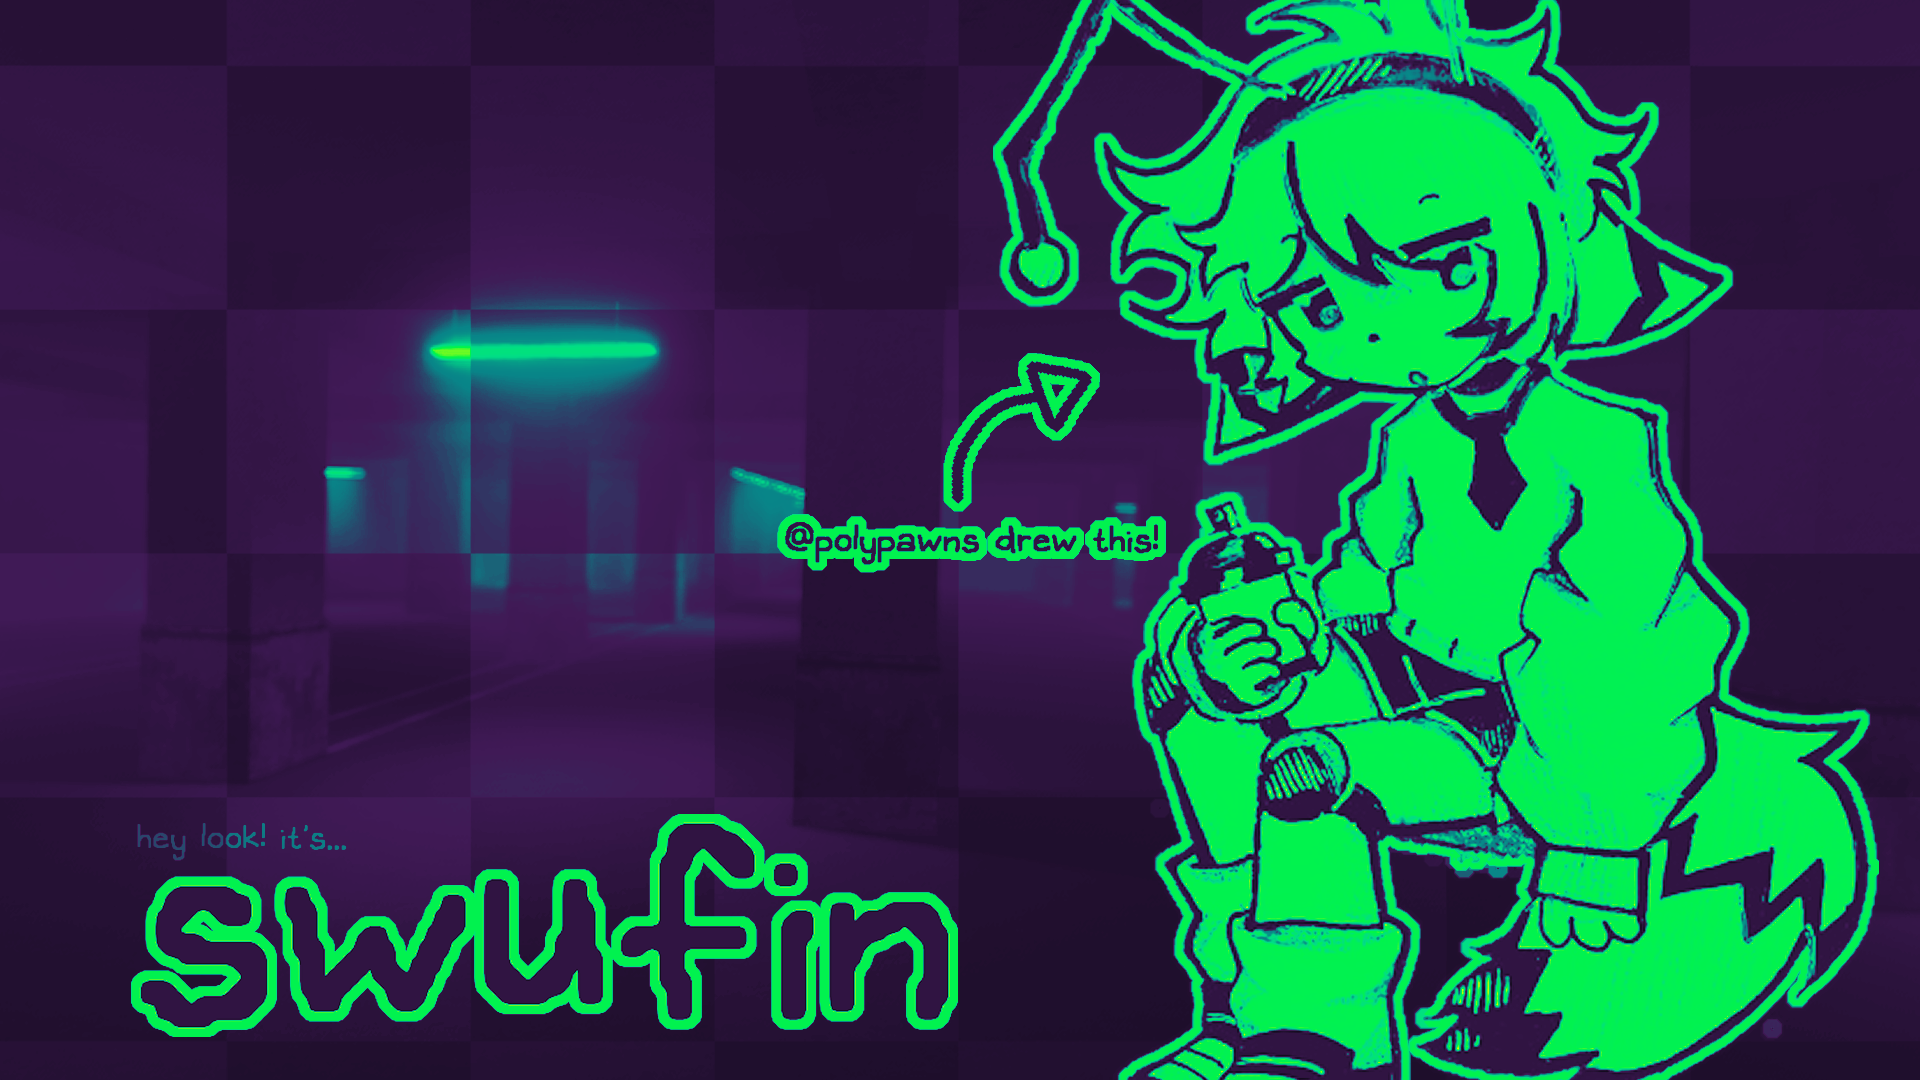
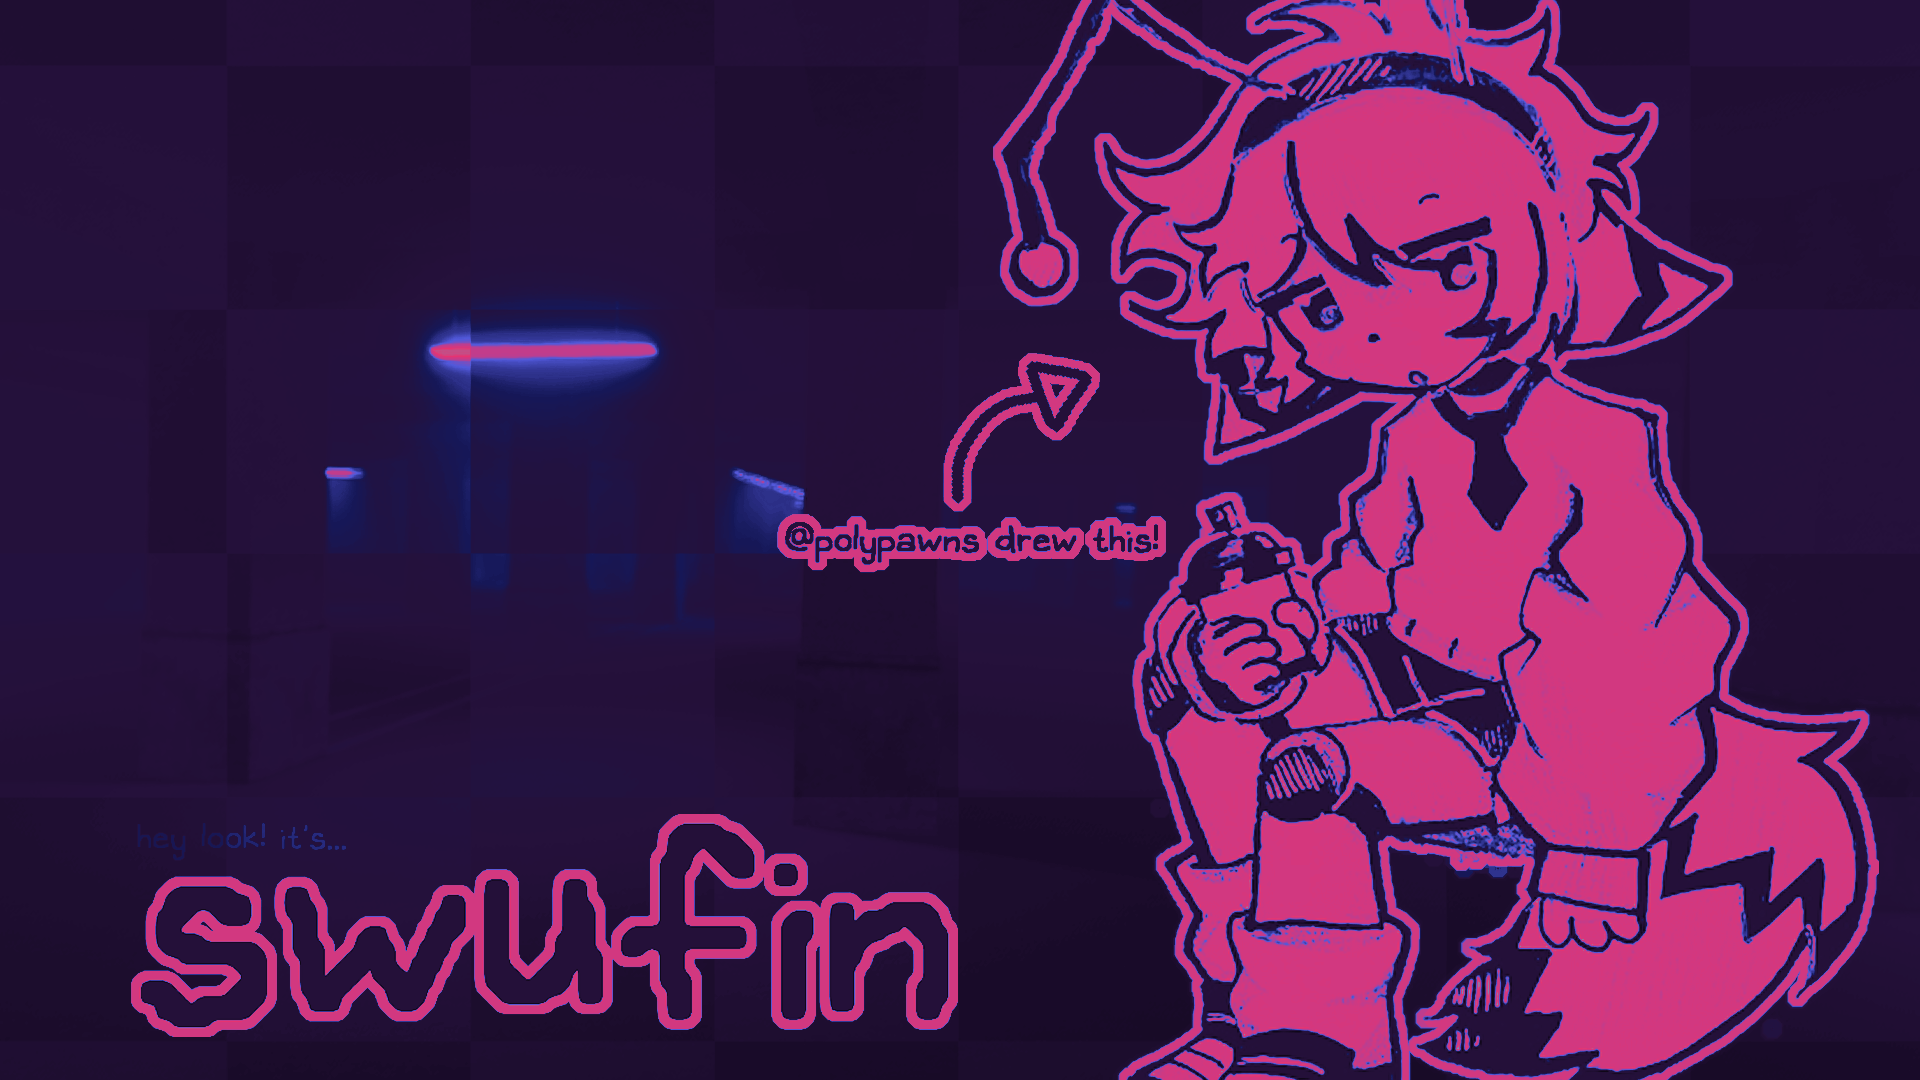
recolor, edited bio

diff --git a/index.html b/index.html
@@ -14,7 +14,7 @@
             color: #fceaff;
             background-image: var(--body-bg-image);
             background-image: url('https://github.com/Swufin/swufin.github.io/blob/main/docs/assets/img/Tile_Alien.png?raw=true');
-            background-color: #10083b;
+            background-color: #0a0511;
             font-family: 'FortySeven Micro NBP', sans-serif;
         }
 
@@ -24,22 +24,22 @@
             align-items: center;
             width: 800px;
             margin: 0 auto;
-            border: 1px solid #5fce2a;
+            border: 1px solid #ea5085;
             padding: 3px;
         }
 
         #box {
             width: 800px;
-            background-color: #0e082d;
-            color: #7cf010;
-            border: 1px solid #7bf010;
+            background-color: #0a0511;
+            color: #ea5085;
+            border: 1px solid #ea5085;
         }
 
         #header {
             margin-bottom: 10px;
             padding: 10px;
-            border-bottom: 1px solid #7bf010;
-            background-image: linear-gradient(to right, #01f14f, #3e2551,#0d072e);
+            border-bottom: 1px solid #ea5085;
+            background-image: linear-gradient(to right, #ea5085, #5158da,#161757,#0a0511);
             color: #0e082d;
             letter-spacing: 3px;
         }
@@ -56,13 +56,13 @@
         }
 
         .sidebox {
-            border: 1px solid #4bbd53;
+            border: 1px solid #ea5085;
             margin: 0px 0px 5px 0px;
         }
 
         .sidecontent {
             padding: 0px 0px 0px 5px;
-            color: #01f14f;
+            color: #ea5085;
             font-size: 17px;
             letter-spacing: 1px;
         }
@@ -79,7 +79,7 @@
         }
 
             a:visited {
-                color: #48b056;
+                color: #ea5085;
             }
 
             a:hover {
@@ -113,14 +113,14 @@
         }
 
         .mainboxes {
-            border: 1px solid #01f14f;
+            border: 1px solid #ea5085;
             padding: 0px;
             margin: 0px 0px 5px 0px;
         }
 
         .subheader {
-            background-image: linear-gradient(to right, #01f14f, #3e2551,#0d072e);
-            border-bottom: 1px solid #01f14f;
+            background-image: linear-gradient(to right, #ea5085, #5158da,#161757,#0a0511);
+            border-bottom: 1px solid #ea5085;
             padding: 3px;
             color: #0e082d;
             letter-spacing: 3px;
@@ -132,7 +132,7 @@
 
         .mainboxescontent {
             padding: 0px 15px 0px 15px;
-            color: #01f14f;
+            color: #ea5085;
             font-size: 17px;
         }
 
@@ -140,7 +140,7 @@
             clear: both;
             padding: 3px;
             border-top: 1px solid #5fce2a;
-            background-image: linear-gradient(to right, #01f14f, #3e2551,#0d072e);
+            background-image: linear-gradient(to right, #ea5085, #5158da,#161757,#0a0511);
             color: #0e082d;
             font-size: 14px;
         }
@@ -154,11 +154,11 @@
         }
 
         ::-webkit-scrollbar-track {
-            background-color: #fff7fb;
+            background-color: #ea5085;
         }
 
         ::-webkit-scrollbar-thumb {
-            background-color: #7bf010;
+            background-color: #ea5085;
         }
 
         #credit {
@@ -264,7 +264,7 @@
                     <div class="mainboxescontent">
 
                         <p style="clear:right;">
-                            i'm just a random autist on the internet who happens to enjoy exploring different forms of art, including music production and drawing! i also have some experience with scripting and hope to work on an indie game in the future, when i have enough time.
+                            i'm just a person on the internet who happens to enjoy exploring different forms of art, including music production and drawing! i also have some experience with game development and hope to work on an indie game in the future, when i have enough time ...
 
                             <a href="https://twitter.com/massivetitty">
                                 <img src="https://github.com/Swufin/swufin.github.io/blob/main/docs/assets/img/Loyola_Icon.png?raw=true" style="float: left; margin: 5px; width: 28%;"><img>
@@ -272,7 +272,7 @@
                             being somebody who's born in 2007, it's no surprise that i have an interest for older internet media. games and animations on flash were especially things i've enjoyed in my childhood! ...people still remember that, right?
                         </p>
 
-                        <p style="clear:right" ;>aside from my chronic nostalgia tendencies, i love doing art trades with other people on my free time! it's fun getting to draw other characters as they are all unique in their own ways, which makes this special for me.</p>
+                        <p style="clear:right" ;>aside from my chronic nostalgia, i love doing art trades with other people on my free time!</p>
 
 
                     </div>
